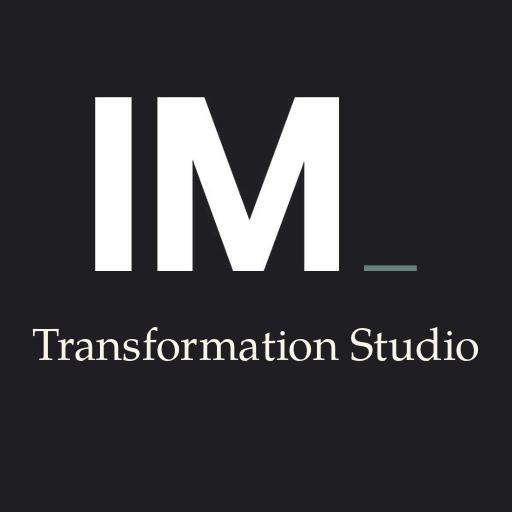
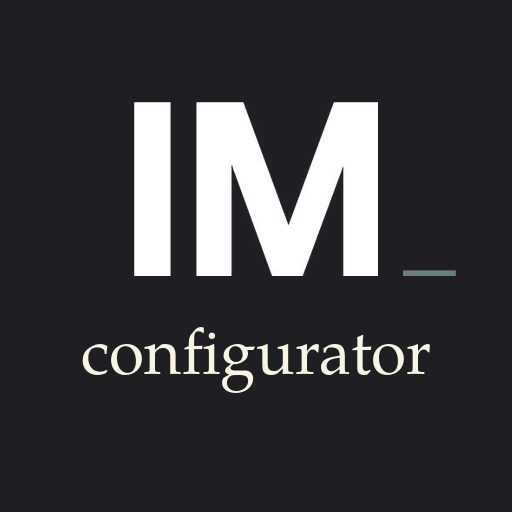
Add files via upload

Changed region(s): [[0.1875, 0.1875, 0.9062, 0.5625], [0.0625, 0.625, 0.9375, 0.7812]]

diff --git a/index.html b/index.html
@@ -6,8 +6,8 @@
 <!-- Full-screen when launched from the iPad Home Screen -->
 <meta name="apple-mobile-web-app-capable" content="yes" />
 <meta name="mobile-web-app-capable" content="yes" />
-<meta name="apple-mobile-web-app-status-bar-style" content="black-translucent" />
-<meta name="apple-mobile-web-app-title" content="Transformation Studio" />
+<meta name="apple-mobile-web-app-status-bar-style" content="default" />
+<meta name="apple-mobile-web-app-title" content="IM_ configurator" />
 <meta name="theme-color" content="#1F1F23" />
 <link rel="manifest" href="manifest.json" />
 <link rel="apple-touch-icon" sizes="192x192" href="icon-192.png" />
@@ -42,22 +42,25 @@
   }
   /* Full-screen behaviour on iPad when launched from the Home Screen */
   html { height: 100%; }
-  body { overscroll-behavior: none; }
+  body { overscroll-behavior: none; position: fixed; inset: 0; }
   .app {
+    background: var(--im-white);
     padding-top: env(safe-area-inset-top);
     padding-bottom: env(safe-area-inset-bottom);
+    padding-left: env(safe-area-inset-left);
+    padding-right: env(safe-area-inset-right);
   }
   html, body {
     margin: 0; padding: 0; height: 100%;
     font-family: var(--font-body);
-    background: var(--im-egg);
+    background: var(--im-white);
     color: var(--im-black);
     -webkit-tap-highlight-color: transparent;
     overflow: hidden;
   }
   button { font-family: var(--font-body); cursor: pointer; }
 
-  .app { width: 100vw; height: 100vh; height: 100dvh; display: flex; flex-direction: column; position: relative; }
+  .app { position: fixed; inset: 0; width: auto; height: auto; display: flex; flex-direction: column; }
 
   header.top {
     display: flex; align-items: center; justify-content: space-between;
@@ -138,7 +141,7 @@
 
   /* ---------- Staff panel ---------- */
   .staff {
-    position: absolute; inset: 0; z-index: 60;
+    position: fixed; inset: 0; z-index: 60;
     background: rgba(31,31,35,0.55);
     display: none; align-items: center; justify-content: center;
   }
@@ -374,7 +377,7 @@
   .btn:active:not(:disabled) { transform: scale(0.97); }
 
   .attract {
-    position: absolute; inset: 0; background: var(--im-black);
+    position: fixed; inset: 0; background: var(--im-black);
     display: flex; flex-direction: column; align-items: center; justify-content: center;
     z-index: 50; transition: opacity 0.4s ease;
   }
